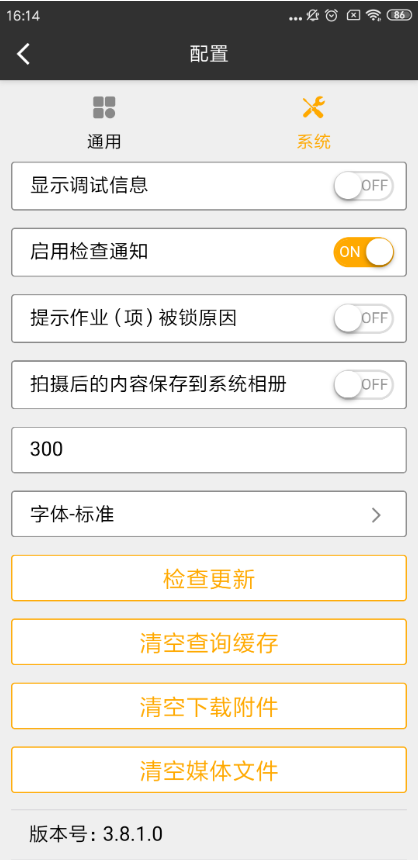
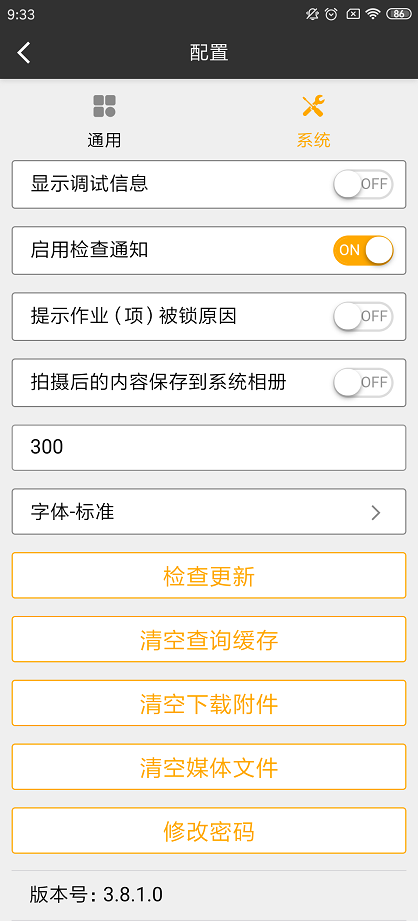
内容修改

Changed region(s): [[0.0, 0.0, 1.0, 1.0], [0.6842, 0.0, 0.9952, 0.0302]]

diff --git a/用户使用手册/终端/配置.md b/用户使用手册/终端/配置.md
@@ -10,7 +10,7 @@
 
 * 查看服务器IP地址
 
-## 终端配置-通用
+## 通用
 
 * 进入应用后，底部三个选项的配置-通用中，IP地址改为服务器地址，建议打开一键同步，此页面信息和功能依次为：
   + 同步数据服务器的IP地址
@@ -20,22 +20,24 @@
   + 仅同步作业组相关资产，打开之后在进行同步时，不属于将要进行作业的作业组的相关资产，则不会同步下来
   + 仅同步登录角色作业组，打开后即只会同步下来当前用户所属角色的作业组
   + 一键同步，打开后只需点击同步就会开始同步，并在同步完之后自动返回，不需要在点击同步键后再手动开始和返回。
+  + 无输入节点自动下一步(登录后可见)，打开作业组后，在当前节点如作业上如果没有需要操作的，则会自动跳到需要进行操作的下一个节点处。
 
     ![zhongduan](./images/zhongduan2.png)
 
-## 终端配置-系统
+## 系统
 
 * 配置-系统中，包含的信息及功能依次为：
-  + 显示调试信息，打开后所进行的每一步操作，都会实时显示应用的相关调试的信息
-  + 启用检查通知，默认打开，用于检查是否有通知
-  + 提示作业(项)被锁原因，有些情况下，作业或者作业项会被锁住，需要通过扫描或者其他方式来解锁，打开此选项后在对锁住的作业或作业项进行作业时，会提示锁住的原因，从而得知如何去解锁完成作业
-  + 拍摄后的内容保存到系统相册，由于在进行作业时，一些情况下会用到摄像头拍摄图片或视频，打开此功能后，拍摄的内容会自动保存至系统的相册中
-  + 检查通知的周期，默认为300秒
-  + 字体大小
-  + 检查更新，检查应用是否有更新
-  + 清空查询缓存，清空查询所产生的缓存
-  + 清空下载附件，清空进行同步作业时下载的附件中未被引用的文件
-  + 清空媒体文件，清空图片视频等多媒体文件
-  + 版本号，当前安装应用的版本号
+  + 显示调试信息，打开后所进行的每一步操作，都会实时显示应用的相关调试的信息。
+  + 启用检查通知，默认打开，用于检查是否有通知。
+  + 提示作业(项)被锁原因，有些情况下，作业或者作业项会被锁住，需要通过扫描或者其他方式来解锁，打开此选项后在对锁住的作业或作业项进行作业时，会提示锁住的原因，从而得知如何去解锁完成作业。
+  + 拍摄后的内容保存到系统相册，由于在进行作业时，一些情况下会用到摄像头拍摄图片或视频，打开此功能后，拍摄的内容会自动保存至系统的相册中。
+  + 检查通知的周期，默认为300秒。
+  + 字体大小。
+  + 检查更新，检查应用是否有更新。
+  + 清空查询缓存，清空查询所产生的缓存。
+  + 清空下载附件，清空进行同步作业时下载的附件中未被引用的文件。
+  + 清空媒体文件，清空图片视频等多媒体文件。
+  + 版本号，当前安装应用的版本号。
+  + 修改密码(登录后可见)，用以用户修改当面登录密码。
   
     ![zhongduan](./images/zhongduan3.png)  

diff --git a/用户使用手册/终端/主页.md b/用户使用手册/终端/主页.md
@@ -4,10 +4,6 @@
 
 * 下方选项相对于登录页面，退出项会转变为日志项，用于日志记录。
 
-* 相对于未登录前，配置中会有些不一样：
-  + 配置-通用中，登录后会多出一项，无输入节点自动下一步，打开作业组后，在当前节点如作业上如果没有需要操作的，则会自动跳到需要进行操作的下一个节点处。
-  + 配置-系统中，会多出一个修改密码项，用以用户修改当面登录密码
-
 * 如果是巡检权限的用户登录，作业组状态操作栏则有待执行、执行中、已执行和创建；如果是有审核权限的用户登录，则会多出一个待审核。
   + 待执行，未开始作业的作业组。
   + 执行中，正在进行作业的作业组。
